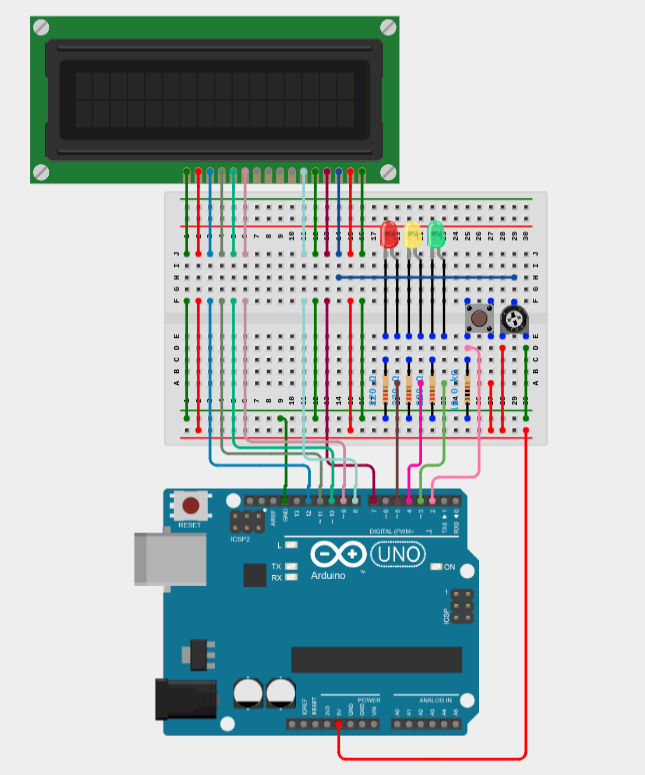
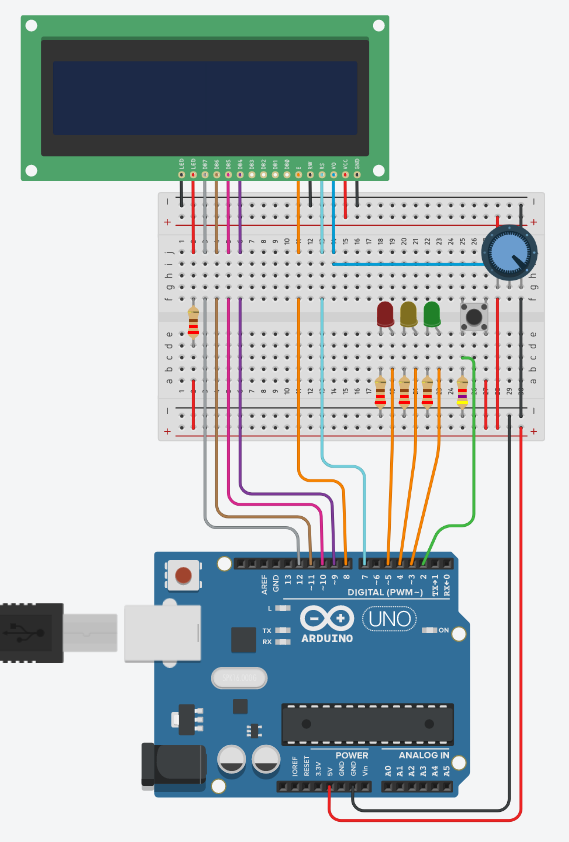
aoMagic8: update schematics with resistor to protect LCD

diff --git a/aoMagic8/README.md b/aoMagic8/README.md
@@ -24,8 +24,8 @@ Once the thinking period is over, it will display its answer on the screen.
 | 1 | Arduino Uno (Rev3) |
 | 1 | LCD 16x2 |
 | 3 | LED (Red/Yellow/Green) |
-| 3 | Resistor 220 Ohms |
-| 1 | Resistor 10 KOhms |
+| 4 | Resistor 220 Ohms |
+| 1 | Resistor 1 KOhms |
 | 1 | Pushbutton |
 | 1 | Potentiometer |
 
